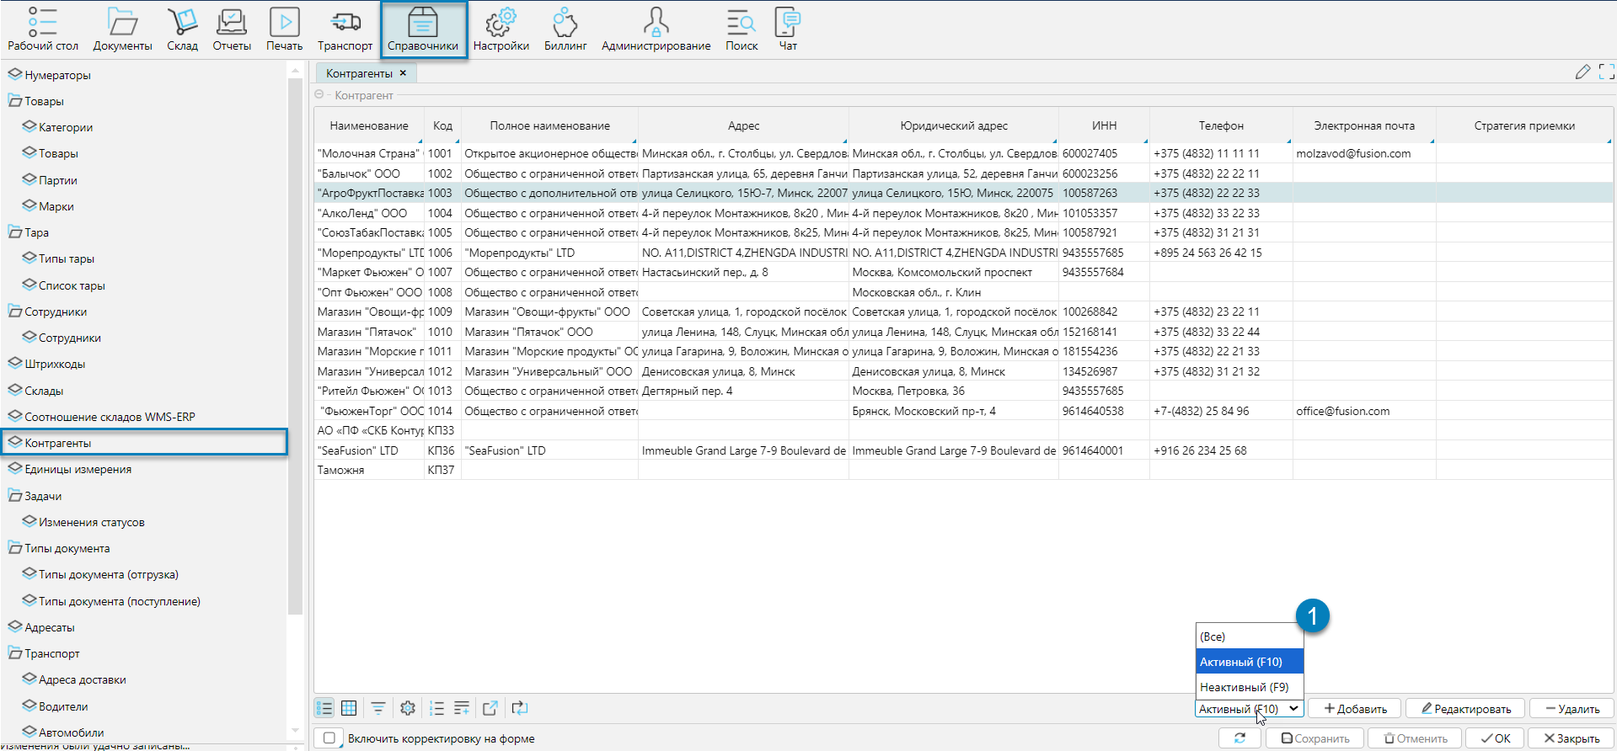
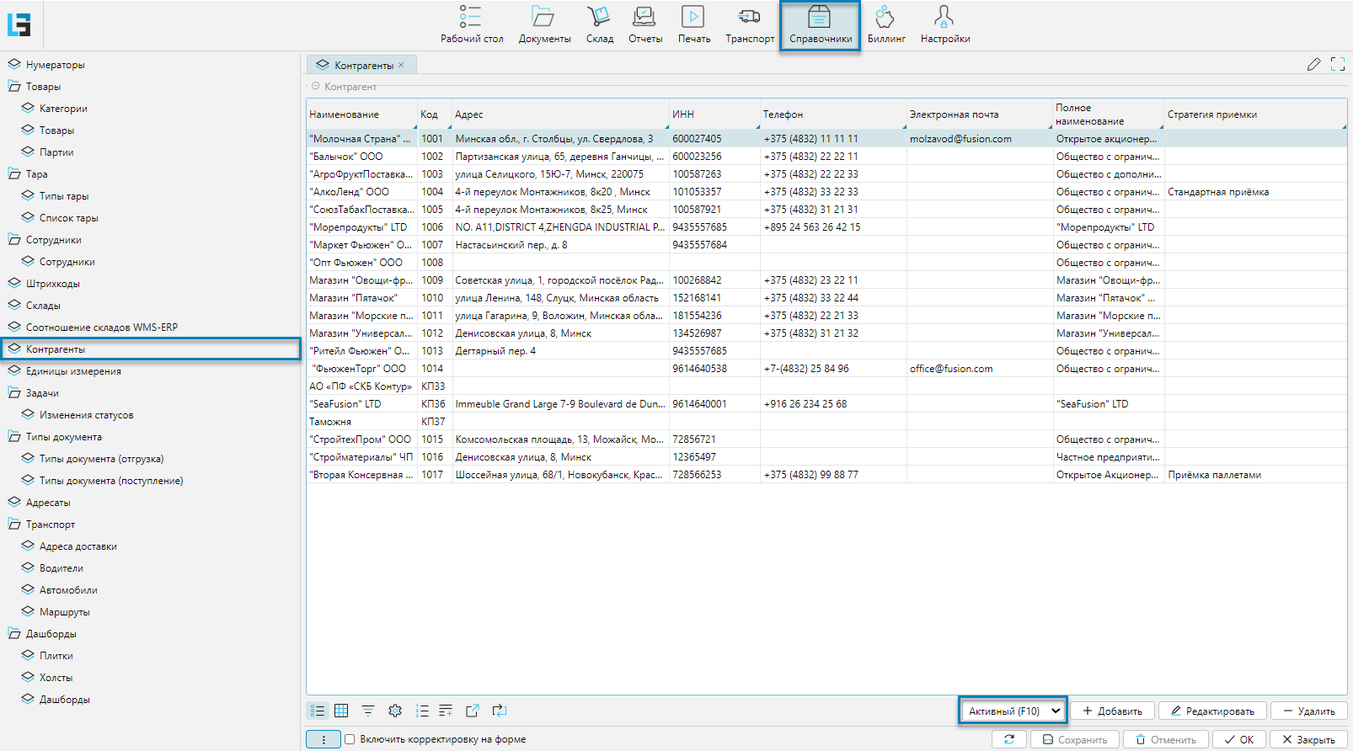
Документация

Changed region(s): [[0.0, 0.0, 1.0, 0.9989], [0.6849, 0.787, 0.9963, 0.9989], [0.1868, 0.9081, 0.3736, 0.9989]]

diff --git a/docs/masterdata/categories.md b/docs/masterdata/categories.md
@@ -2,12 +2,13 @@
 title: 'Справочник категорий'
 ---
 
-Справочник категорий является классификатором, группирующим товары по определенным признакам. 
-На уровне категорий можно задавать отдельные характеристики, которые будут применимы ко всем товарам, 
-принадлежащим выбранной категории или к дочерним категориям. При этом:
+Справочник категорий является классификатором, группирующим товары по определенным признакам. На уровне категорий 
+можно задавать отдельные свойства, которые будут применимы ко всем товарам, принадлежащим выбранной категории 
+или к дочерним категориям. При этом:
 - если установлены логические значения (флажки), то на уровне товара или дочерней категории их отменить нельзя
-- если установлены строковые (числовые) значения, то на уровне товара или дочерней категории они будут отображаться неактивным (_серым_) цветом и 
-могут быть изменены при необходимости. При изменении значения последнее будет выделяться активным цветом (_черным_).
+- если установлены строковые (числовые) значения, то на уровне товара или дочерней категории они будут отображаться 
+  неактивным (_серым_) цветом и могут быть изменены при необходимости. При изменении значения последнее будет 
+  выделяться активным цветом (_черным_). 
 
 Справочник доступен из меню **Справочники-Категории** (Рис. 1).<br/>
 Справочник может как импортироваться из внешней системы, так и создаваться и редактироваться в lsFusion WMS.
@@ -15,31 +16,31 @@ title: 'Справочник категорий'
 
 ## Отображение справочника
 
-Справочник категорий представлен формой отображения имеющей разделение на две вкладки Дерево и Список (Рис. 1(1)), 
+Справочник категорий представлен формой отображения имеющей разделение на две вкладки **Дерево** и **Список** (Рис. 1), 
 различающиеся визуальными и функциональными особенностями. 
 
 ![](img/categories1.png)<br/>
-Рис. 1 Форма отображения справочника, вкладка Дерево
+_Рис. 1 Форма отображения справочника, вкладка Дерево_
 
-Редактирование справочника вызывается стандартно из верхней табличной части (Рис.1(2)). 
-Нижняя табличная часть позволяет связывать этикетки на товары, закрепляя их за товарной категорией (Рис. 1(3)). 
-При этом редактирование можно выполнять непосредственной в табличной части, меняя значение флажков "Вкл" и "По умолч.". 
-По окончанию процесса редактирование _важно_ не забыть нажать на кнопку "Сохранить" (Рис. 1(4)), 
-чтобы сделанные изменения, связанные с этикетками, вступили в силу.
+Редактирование справочника вызывается стандартно из верхней табличной части.
+
+Нижняя табличная часть **Шаблон этикеток товара** позволяет связывать этикетки на товары, закрепляя их за товарной 
+категорией. При этом редактирование можно выполнять непосредственной в табличной части, меняя значение флажков 
+**Вкл** и **По умолч**.  
 
 ![](img/categories2.png)<br/>
-Рис. 2 Форма отображения справочника, вкладка Список
+_Рис. 2 Форма отображения справочника, вкладка Список_
 
-Форма отображения представлена линейным списком категорий. 
-Колонка "Наименование" - это конечное наименование категории (Рис. 2(1)), 
-а колонка "Родитель" (Рис. 2(2)) отражает предшествующие категории по степени их вложенности, используя символ разделить "/".
+Форма отображения представлена линейным списком категорий. Колонка **Наименование** - это конечное наименование 
+категории, а колонка **Родитель** отражает предшествующие категории по степени их вложенности, используя 
+символ разделить **/**.
 
-## Редактирование справочника
+## Редактирование категории
 
 ![](img/categories3.png)<br/>
-Рис. 3 Форма редактирования справочника
+_Рис. 3 Форма редактирования категории_
 
-Форма редактирования справочника, представленная на рисунке 3, может быть поделена на 2 функциональных блока:
+Форма редактирования категории (Рис. 3) может быть условно разделена на 2 функциональные части:
 1. Категория - свойства категории
 2. Вкладки - дополнительные свойства категории
 
@@ -61,7 +62,7 @@ title: 'Справочник категорий'
 Вкладка закрепляет за категорией шаблоны этикеток.
 
 ![](img/categories4.png)<br/>
-Рис. 4 Вкладка шаблоны этикеток
+_Рис. 4 Вкладка шаблоны этикеток_
 
 Редактирование производится непосредственно в табличной части изменением значения в колонке "Вкл" (включен, то есть
 отчет используется категорией) и установкой значения в колонке "По умолч." (отчет по умолчанию). Флаги влияют на выбор
@@ -80,20 +81,24 @@ title: 'Справочник категорий'
 Вкладка отражает доступные для хранения ячейки
 
 ![](img/categories5.png)<br/>
-Рис. 5 Вкладка Ячейки
+_Рис. 5 Вкладка Ячейки_
 
-На вкладке Ячейка отображается иерархическая структура (дерево) доступных складов и их структур (рис. 5(1)) с детализацией каждого элемента до ячеек (рис.5(2)). 
-Для управления отображения запрещенных ячеек на форме присутствует фильтр **Запрет** (Рис. 5(4)). 
-Если фильтр установлен, то отражаются только ранее запрещенные ячейки или список будет пуст, если запрещенных ячеек нет.<br/>
-
-Для каждой редактируемой категории можно запретить использовать определенные места хранения, как на уровне складов (рис. 5(1)), так и отдельных ячеек (рис.5(2)). 
-Для того чтобы запретить использовать определенные места хранения, необходимо установить флаг в поле колонки **Запр** (Рис. 5(3)). 
+На вкладке Ячейка слева отображается иерархическая структура доступных складов в виде дерева. Справа отображаются 
+ячейки, принадлежащие складам и их структурным элементам. Для каждой редактируемой категории можно запретить 
+использовать определенные места хранения, как на уровне складов и их структурных элементов (слева), так и отдельных 
+ячеек (справа). Запрет устанавливается установкой флажков в колонке **Запрет** напротив структурного элемента склада 
+или ячейки. Если запретить какой-либо склад или его элемент, то запрещенными будут ячейки не только, принадлежащие 
+запрещаемому элементу, но также ячейки вложенных элементов в соответствии с иерархическим порядком.   
 
 <info>
 **Логика работы**
 - Логика работы построена таким образом, что по умолчанию все ячейки разрешены для работы
 - Подход с разрешенными ячейками по умолчанию обеспечивает быструю организацию процессов приемки товара
 </info>
+
+Внизу формы справа присутствует фильтр **Запрет** (на рисунке не включен), который нужен для фильтрации запрещенных 
+ячеек. Если фильтр включен, то будут отражаться слева только ранее запрещенные ячейки или список будет пуст, если 
+запрещенных ячеек нет.
 
 Существует несколько понятий, связанных с размещением товара:
 - Свободное перемещение. Если кладовщику оно разрешено, то он может положить товар в ячейку, даже если хранение товара там запрещено.
@@ -105,7 +110,7 @@ title: 'Справочник категорий'
 Вкладка доступна, если в разделе **Категории** установлен флажок **Со сроком годности**
 
 ![](img/categories6.png)<br/>
-Рис. 5 Вкладка Срок годности
+_Рис. 5 Вкладка Срок годности_
 
 При приемке товаров текущей категории будет запрошена дата производства, если установлен чекбокс "Указывать дату производства".
 При этом срок годности рассчитается автоматически относительно даты производства и уставленных значений срока годности лет, месяцев, дней.
@@ -115,7 +120,7 @@ title: 'Справочник категорий'
 Вкладка отвечает за то, как будет планироваться подбор для товаров, входящих в категорию.
 
 ![](img/categories7.png)<br/>
-Рис. 7 Вкладка Подбор
+_Рис. 7 Вкладка Подбор_
 
 Настройки отвечают за особенности планирования товаров, входящих в текущую категорию, при отгрузке.<br/>
 Более подробно описано в разделе Подбор.
@@ -125,17 +130,11 @@ title: 'Справочник категорий'
 Вкладка отвечает за то, в каких единицах будет приниматься товар, входящий в категорию, на приемке
 
 ![](img/categories8.png)<br/>
-Рис. 8 Вкладка Приемка
+_Рис. 8 Вкладка Приемка_
 
 Товар, как правило, принимается и учитывается упаковками, то есть так, как он обычно и поступает на склад.
-Но иногда бывает необходимо принимать товара в базовых единицах (_например, в штуках_).
-При установке чекбокса "Принимать базовые единицы" на приемке товара при считывании штрих кода упаковки,
-количество товара при приемке будет определяться количеством базовых единиц, входящих в упаковку,
-и учитываться товар на складе будет в базовых единицах, а не в упаковках.   
-
-
-
-
-
-
+Если необходимо принимать товара в базовых единицах (_например, в штуках_), то надо установить флажок 
+**Принимать базовые единицы**. При этом на приемке товара при считывании штрих кода упаковки, количество товара при 
+приемке будет определяться количеством базовых единиц, входящих в упаковку, и учитываться товар на складе будет в 
+базовых единицах, а не в упаковках.    
 

diff --git a/docs/masterdata/legalentites.md b/docs/masterdata/legalentites.md
@@ -10,37 +10,103 @@ title: 'Справочник контрагентов'
 
 ## Отображение справочника
 
-![](img/legalentites1.png)  
-Рис. 1 Форма отображения справочника
+![](img/legalentites1.png)<br/>  
+_Рис. 1 Форма отображения справочника_
 
-Для управления отображением контрагентов используют фильтр (Рис. 1 (1)). Фильтр позволяет отобразить **Активных** и
-(или) **Неактивных** контрагентов. Неактивные контрагенты - это те, с которыми по каким-либо причинам не ведется
-деятельность и они не могут быть выбраны в документах.
+Для управления отображением контрагентов используют фильтр **Активный (F10)**. Фильтр позволяет управлять 
+отображением активных и(или) неактивных контрагентов. 
+<info>
+  - Неактивный контрагент - это партнер, с которым в текущий момент времени отсутствует активная деятельность
+  - Неактивные контрагенты недоступны для выбора при оформлении операций и документов
+</info>
 
 
-## Редактирование справочника
+## Редактирование контрагента
 
-![](img/legalentites2.png)  
-Рис. 2 Форма редактирования справочника
+![](img/legalentites2.png)<br/>  
+_Рис. 2 Форма редактирования контрагента_
 
-При редактировании контрагентов (Рис. 2) на форме отображается несколько функциональных групп:
-- общие реквизиты клиента:
-  - **Код** - код контрагента, который является уникальным идентификатором
-  - **Наименование** - краткое наименование контрагента
-  - **Полное наименование** - полное наименование клиента
-  - **Адрес** - физический адрес контрагента
-  - **Юридический адрес** - юридический адрес контрагента
-  - **ИНН** - идентификационный номер налогоплательщика
-  - **Телефон**
-  - **Электронная почта**
-  - **Неактивный** - если флажок установлен, то клиент будет считаться неактивным. Такого клиента нельзя выбрать при
-    оформлении приходно / расходных операций, но он будет виден в документах движения.
-- отдельные вкладки, связанные со своим списком дополнительных реквизитов
-  - Атрибуты
-  - Поступления - отображаются все документы-поступления от контрагента
-  - Адреса - настройки дополнительного модуля "Транспорт", которые описаны в разделе (?)
-  - Маршруты - настройки дополнительного модуля "Транспорт", которые описаны в разделе (?)
-  - Ответственное хранение 
+Форма редактирования контрагента (Рис. 2) может быть условно разделена на 2 функциональные части:
+1. Общие свойства контрагента
+2. Вкладки - дополнительные свойства контрагента
+
+Свойства контрагента:
+- **Код** - код контрагента, который является уникальным идентификатором
+- **Наименование** - краткое наименование контрагента
+- **Адрес** - физический адрес контрагента
+- **ИНН** - идентификационный номер налогоплательщика
+- **Телефон**
+- **Электронная почта**
+- **Неактивный** - если флажок установлен, то клиент будет считаться неактивным. Такого клиента нельзя выбрать при 
+  оформлении приходно / расходных операций, но он будет виден в документах движения. 
+
+### Вкладка Атрибуты
+Вкладка содержит дополнительные [атрибуты](attributes.md) контрагента.
+
+![](img/legalentites3.png)<br/>
+_Рис. 3 Вкладка атрибуты_
+
+Элементы ввода:
+- **Примечание** - дополнительная информация, примечание
+- **Менеджер** 
+- **Полное наименование** - наименование контрагента без сокращений и аббревиатур
+
+[//]: # (todo - кто понимается под менеджером)
+***
+
+
+### Вкладка Поступления
+Вкладка отображает список поступлений товара от контрагента
+
+![](img/legalentites4.png)<br/>
+_Рис. 4 Вкладка Поступления_
+
+[//]: # (todo - Что такое стратегия приемки)
+***
+
+
+### Вкладка Адреса
+Вкладка отображает карту и адрес(а) доставки
+
+![](img/legalentites5.png)<br/>
+_Рис. 5 Вкладка Адреса_
+
+Форма разбита на две части:
+1. Слева отображается адрес(а) доставки с данными геолокации
+2. Справа отображается карта с адресом доставки
+
+Элементы управления:
+- **Только отмеченные** - фильтр (установлен по умолчанию), отображает закрепленные за контрагентом адреса доставки. 
+  Если фильтр снят, то табличная часть формы отображает список доступных адресов доставки
+
+  ![](img/legalentites6.png)<br/>
+  _Рис. 6 Список адресов доставки_
+
+- **Вкл** - флажок в табличной части формы отвечает за закрепление адреса доставки за контрагентом. Адресов доставки 
+  может быть несколько, соответственно на карте будет отмечено несколько точек. Список адресов настраивается из меню 
+  **Транспорт-Справочники-Адреса доставки**   
 
 [//]: # (todo - Необходимо дать ссылку на модуль Транспорт)
+[//]: # (todo - Непонятно действие по элементу карта слева, отмечено стрелкой)
+***
 
+
+### Вкладка Маршрут
+Вкладка отражает список маршрутов 
+
+![](img/legalentites7.png)<br/>
+_Рис. 7 Вкладка Маршрут_
+
+Список маршрутов настраивается из меню **Транспорт-Справочники-Маршруты**
+
+[//]: # (todo - Необходим заполненный пример)
+[//]: # (todo - Необходимо дать ссылку на модуль Транспорт)
+***
+
+
+### Вкладка Ответственное хранение
+
+![](img/legalentites8.png)<br/>
+_Рис. 8 Вкладка Маршрут_
+
+[//]: # (todo - Необходима дополнительная информация)

diff --git a/docs/masterdata/uoms.md b/docs/masterdata/uoms.md
@@ -11,13 +11,13 @@ title: 'Справочник единицы измерения'
 ## Отображение справочника
 
 ![](img/uoms1.png)<br/>
-Рис. 1 Форма отображения справочника
+_Рис. 1 Форма отображения справочника_
 
 
-## Редактирования справочника
+## Редактирование единицы измерения
 
 ![](img/uoms2.png)<br/>
-Рис. 2 Форма редактирования справочника
+_Рис. 2 Форма редактирования единицы измерения_
 
 Для каждой единицы измерения указывают:
 - **Код** - идентификатор единицы измерения в системе

diff --git a/docs/masterdata/items.md b/docs/masterdata/items.md
@@ -40,10 +40,10 @@ title: 'Справочник товаров'
 Рис. 1.1 Пример печатной формы: Этикетка на товар
 
 
-## Редактирование справочника
+## Редактирование карточки товара
 
 ![](img/items2.png)<br/>
-Рис. 2 Форма редактирования справочника
+Рис. 2 Форма редактирования карточки товара
 
 Форма редактирования справочника, представленная на рисунке 2, может быть поделена на 5 функциональных блоков:
 1. Номенклатура - основные характеристики товара
